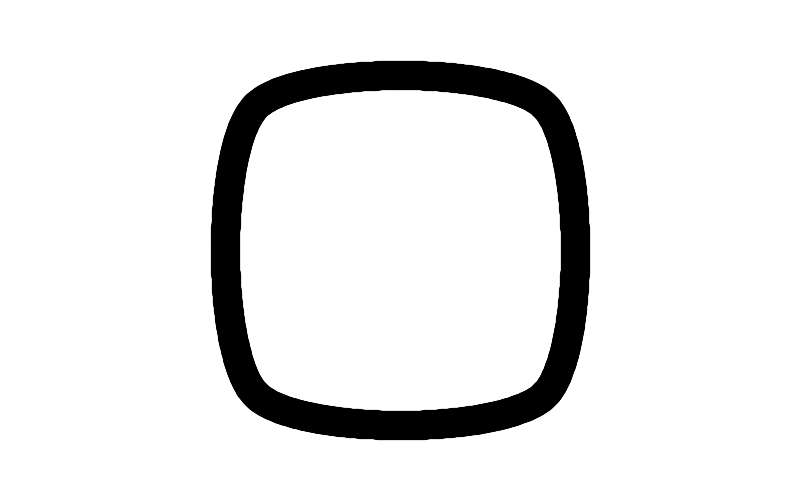
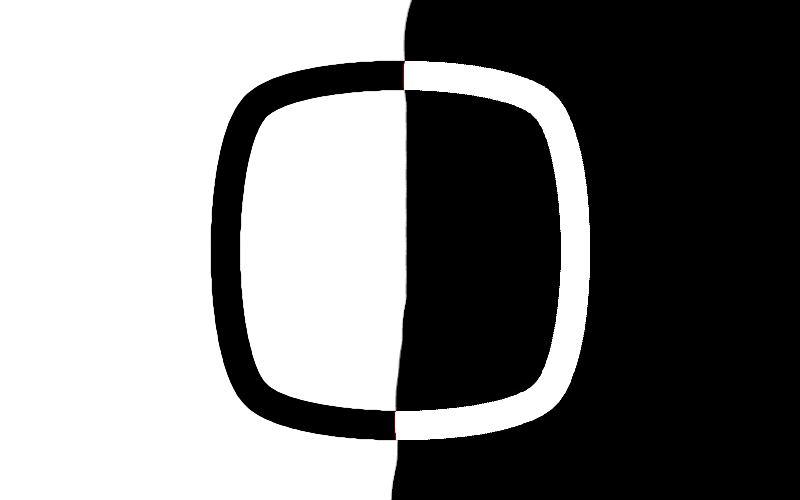
a lot of different changes

diff --git a/line_follower_v0/envs/main.py b/line_follower_v0/envs/main.py
@@ -20,11 +20,17 @@ def rgb2gray(rgb):
     return np.dot(rgb[..., :4], [0.25, 0.25, 0.25, 0.25])
 
 
-action_to_inputs = (
-    (0.1, 1.0),  # slow down left wheel
-    (1.0, 1.0),  # both wheels normal speed
-    (1.0, 0.1),  # slow down right wheel
-)
+# action_to_inputs = np.array((
+#     (-1.0, +1.0),  # slow down left wheel
+#     (+1.0, +1.0),  # both wheels normal speed
+#     (+1.0, -1.0),  # slow down right wheel
+# ))*3
+
+action_to_inputs = np.array((
+    (0, 1),  # slow down left wheel
+    (1, 1),  # both wheels normal speed
+    (1, 0),  # slow down right wheel
+))*3
 
 
 class LineFollowerEnv(gym.Env):
@@ -42,11 +48,21 @@ class LineFollowerEnv(gym.Env):
         track="path",  # options = ["path", "path2"]
         max_steps=200,
         hitbox=20,
+        x_spacing=20,
+        y_spacing=20,
+        verbose=False,
+        invert_waypoints=None,
+        invert_colours=None,
     ):
         self.sensor_grid = sensor_grid
         self.track = track
         self.max_steps = max_steps
         self.hitbox = hitbox
+        self.x_spacing = x_spacing
+        self.y_spacing = y_spacing
+        self.verbose = verbose
+        self.invert_waypoints = invert_waypoints
+        self.invert_colours = invert_colours
 
         self.observation_space = spaces.MultiBinary(
             (sensor_grid[0] * sensor_grid[1],)
@@ -94,10 +110,21 @@ class LineFollowerEnv(gym.Env):
 
         self.track_image = (1 - rgb2gray(image.imread(png_path))).astype(bool)
         self.waypoints = np.load(npy_path)[::10]
+        self.pygame_track = pygame.image.load(png_path)#.convert_alpha()
         # reverse the waypoints with 50% probability
-        if random.random() < 0.5:
+        
+        if random.choice([True, False]) if self.invert_waypoints is None else self.invert_waypoints:
             self.waypoints = self.waypoints[::-1]
-        self.pygame_track = pygame.image.load(png_path)
+        #     if self.verbose: print("counter-clockwise")
+        # else:
+        #     if self.verbose: print("clockwise")
+        if random.choice([True, False]) if self.invert_colours is None else self.invert_colours:
+            self.track_image = np.logical_not(self.track_image)
+
+            # invert pygame surface
+            arr = pygame.surfarray.array3d(self.pygame_track)
+            arr = 255 - arr
+            self.pygame_track = pygame.surfarray.make_surface(arr)#.convert_alpha()
 
 
     def _get_obs(self):
@@ -129,7 +156,9 @@ class LineFollowerEnv(gym.Env):
         self.car = Car(
             sensor_grid=self.sensor_grid,
             position=to_pygame(this_pos),
-            angle=angle
+            angle=angle,
+            x_spacing=self.x_spacing,
+            y_spacing=self.y_spacing,
         )
 
         self.car_coins = Coins(
@@ -200,7 +229,7 @@ class LineFollowerEnv(gym.Env):
         canvas = pygame.Surface((WIDTH, HEIGHT))
         canvas.fill(WHITE)
         canvas.blit(self.pygame_track, (0, 0))
-        
+
         vals = sensor_vals if sensor_vals is not None else self._get_obs()
         
         self.car_coins.display(canvas)

diff --git a/line_follower_v0/envs/car.py b/line_follower_v0/envs/car.py
@@ -31,11 +31,13 @@ class Car:
         self,
         sensor_grid = (4, 6),
         position=np.array([100, 100]),
-        angle = np.pi/8
+        angle = np.pi/8,
+        x_spacing=20,
+        y_spacing=20,
     ):
         self.sensor_grid = sensor_grid  # (rows, cols)
-        self.width  = sensor_grid[0]*20
-        self.height = sensor_grid[1]*20  # (width, height) in pixels
+        self.width  = sensor_grid[0]*y_spacing
+        self.height = sensor_grid[1]*x_spacing  # (width, height) in pixels
         self.pos0     = position  # (x, y) in pixels
         self.ang0     = angle     # angle in radians
         self.reset()
@@ -203,17 +205,26 @@ class Coins:
 
     def display(self, screen):
         YELLOW = (255, 255, 0)
-        RED = (255, 0, 0)
         GREEN = (0, 255, 0)
-        rad = 4
+        DEEP_ORANGE = (255, 140, 0)
+        RED = (255, 0, 0)
+
+        max_rad = 6
+        coin_color = DEEP_ORANGE
+        border_color = RED
+
         for i, coin in enumerate(self.coins, start=1):
-            t = i / len(self.coins)   # 0 → 1 across coins
-            # interpolate between YELLOW and BLACK
-            r = int(YELLOW[0] * max(1 - 2*t, 0))
-            g = int(YELLOW[1] * max(1 - 2*t, 0))
-            b = int(YELLOW[2] * max(1 - 2*t, 0))
-            color = (r, g, b)
-            pygame.draw.circle(screen, color, coin, rad)
-        # pygame.draw.circle(screen, GREEN, self.coins[0], rad)
+            t = i / len(self.coins)
+            rad = max(int(max_rad * (1 - 10*t) + 1), 0)
+            
+            if rad <= 0:
+                continue
+            
+            # First, draw the main filled yellow circle
+            # pygame.draw.circle(screen, coin_color, coin, rad)
+            pygame.draw.circle(screen, coin_color, coin, max_rad)
+            
+            # Then, draw the orange border on top
+            pygame.draw.circle(screen, border_color, coin, max_rad, 1)
 
         pygame.draw.circle(screen, GREEN, to_pygame(self.car.position), self.radius, 1)

diff --git a/line_follower_v1/envs/main.py b/line_follower_v1/envs/main.py
@@ -12,7 +12,7 @@ from line_follower_v0.envs import LineFollowerEnv as LineFollower_v0
 class LineFollowerEnv(LineFollower_v0):
     def __init__(self, *args, **kwargs):
         super().__init__(*args, **kwargs)
-        self.action_space = spaces.Box(low=-5.0, high=5.0, shape=(2,), dtype=np.float32)
+        self.action_space = spaces.Box(low=-3.0, high=3.0, shape=(2,), dtype=np.float32)
 
     def step(self, action):
         dt = 0.05  # time step
